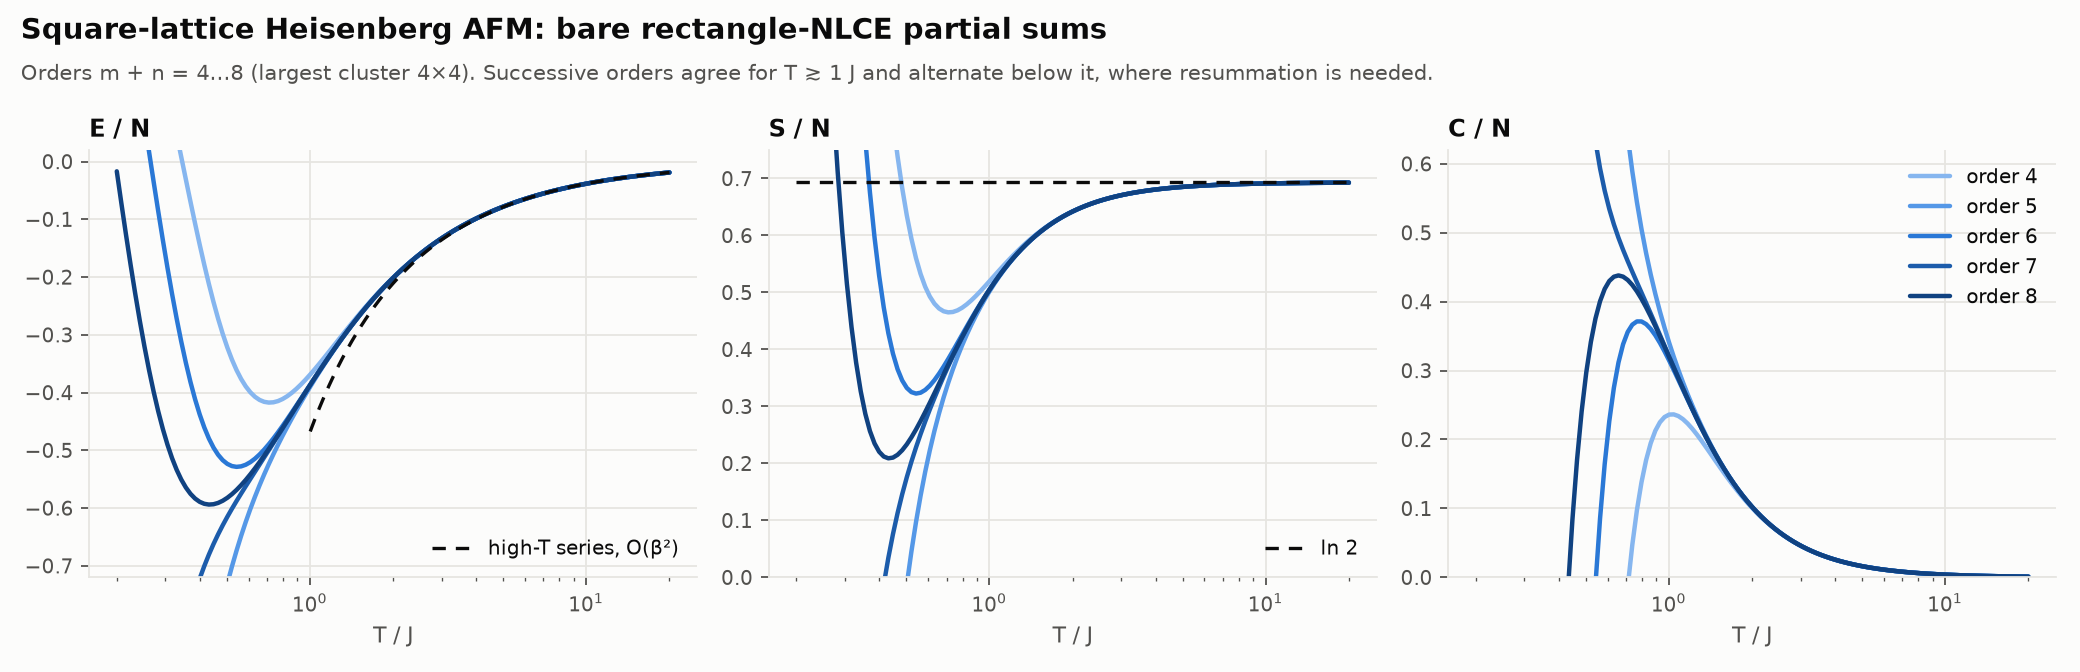
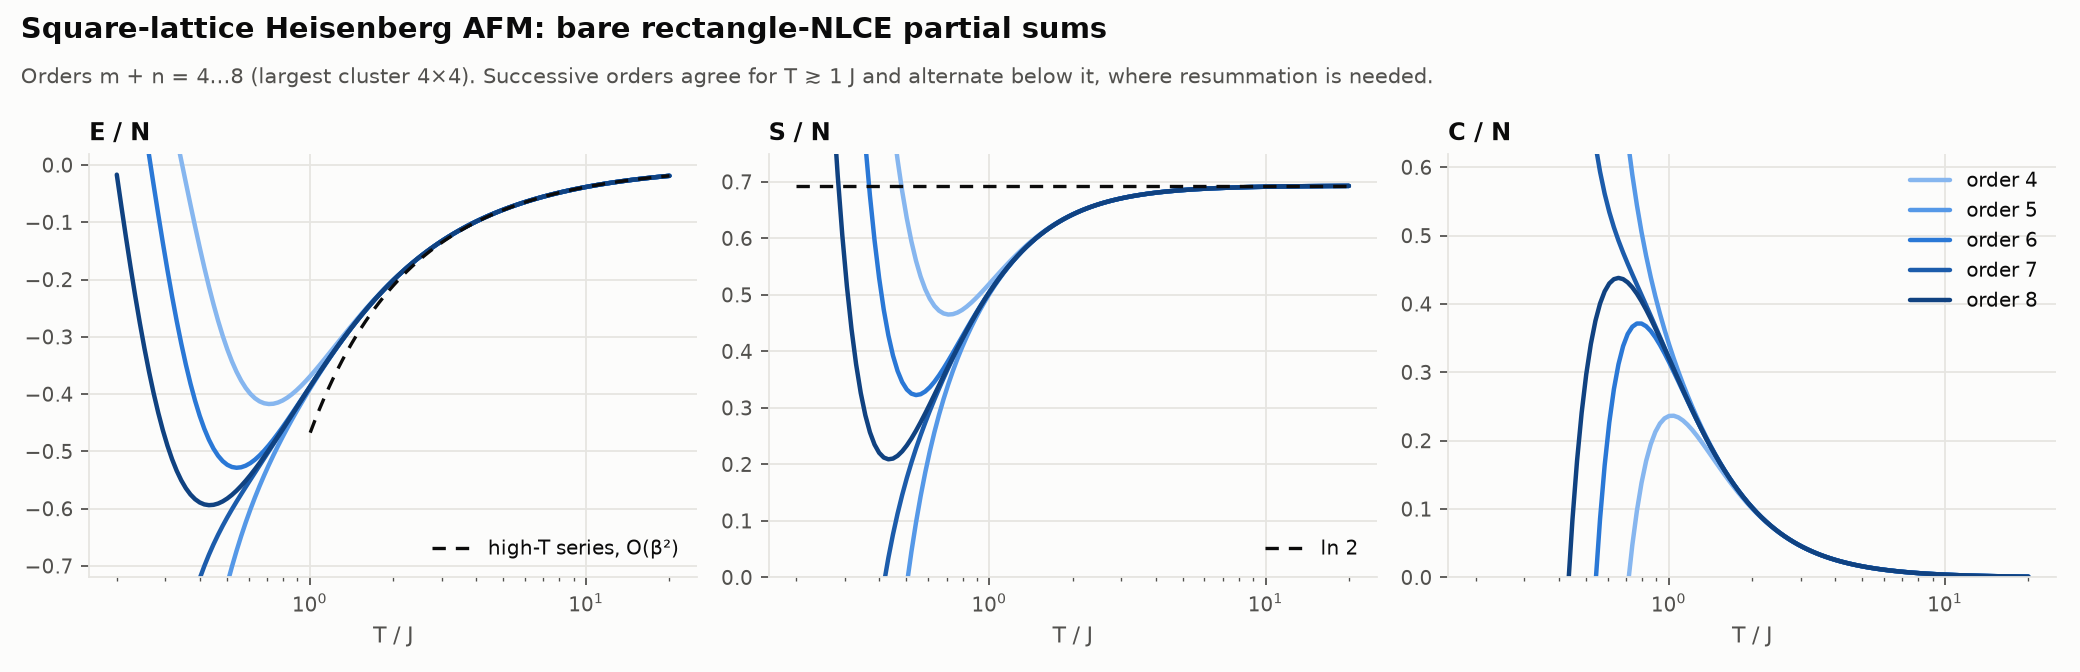
Compensated thermal sums; bond vs rectangle expansion plots
- ExactDiagSolver: Neumaier summation for the Boltzmann sums. Inclusion-
  exclusion over the 12-bond DAG (21M embeddings, lattice constants up to
  ~1e4) amplifies rounding in P(c); this lowers the high-T floor of the
  Ising bond expansion from ~1e-6 to ~1e-9. The Heisenberg floor (~1e-8)
  comes from dense-eigensolver rounding and is unchanged.
- export_csv: 12-bond Heisenberg and Ising data from one shared ClusterSet.
- make_plots.py: heisenberg_bond.png (partial sums by order),
  bond_vs_rect_heisenberg.png (highest orders + last-order change),
  bond_vs_rect_ising.png (true error vs Onsager); inch-based title layout.
- README: plots and round-off notes.

Claude-Session: https://claude.ai/code/session_015xkeCVHFZmC4ayFKANJnHy

diff --git a/crates/quspin-nlce/plots/make_plots.py b/crates/quspin-nlce/plots/make_plots.py
@@ -98,10 +98,13 @@ def reference(ax, t, y, label):
 
 
 def finish(fig, path, title, subtitle):
-    # fig.text (not suptitle) so tight_layout packs the axes right under it.
+    # Positions in inches from the top, so every figure height gets the same
+    # spacing; fig.text (not suptitle) so tight_layout packs the axes below.
+    h = fig.get_figheight()
+    n_lines = subtitle.count("\n") + 1
     fig.text(
         0.01,
-        0.975,
+        1 - 0.1 / h,
         title,
         ha="left",
         va="top",
@@ -109,8 +112,10 @@ def finish(fig, path, title, subtitle):
         fontweight="bold",
         color=INK,
     )
-    fig.text(0.01, 0.905, subtitle, ha="left", va="top", fontsize=9.5, color=INK_2)
-    fig.tight_layout(rect=(0, 0, 1, 0.86))
+    fig.text(
+        0.01, 1 - 0.42 / h, subtitle, ha="left", va="top", fontsize=9.5, color=INK_2
+    )
+    fig.tight_layout(rect=(0, 0, 1, 1 - (0.42 + 0.19 * n_lines) / h))
     fig.savefig(path, dpi=160)
     print("wrote", path)
 
@@ -210,3 +215,105 @@ finish(
     "Orders 3…15 (chains of 2…14 sites). At order 15 the error hits machine "
     "precision (~1e-14) for T ≳ 0.5 J.",
 )
+
+# --- Bond expansion vs rectangle expansion -----------------------------------
+RECT, BOND = "#2a78d6", "#eb6834"  # categorical slots 1-2 (validated pair)
+QUANTS = [("energy", "E / N"), ("entropy", "S / N"), ("specific_heat", "C / N")]
+
+if (DIR / "heisenberg_bond.csv").exists():
+    hb = load("heisenberg_bond.csv")
+
+    # Partial sums by order, same layout as heisenberg.png.
+    fig, axes = plt.subplots(1, 3, figsize=(13, 4.2))
+    for ax, (key, lab) in zip(axes, QUANTS):
+        order_lines(ax, hb, [8, 9, 10, 11, 12], key)
+        ax.set_xscale("log")
+        ax.set_xlabel("T / J")
+        ax.set_title(lab, loc="left")
+    axes[0].set_ylim(-0.72, 0.02)
+    axes[1].set_ylim(0, 0.75)
+    axes[2].set_ylim(0, 0.62)
+    axes[2].legend(loc="upper right")
+    finish(
+        fig,
+        DIR / "heisenberg_bond.png",
+        "Square-lattice Heisenberg AFM: bare bond-NLCE partial sums",
+        "Orders 8…12 bonds (4,424 topologies, up to 13 sites). Even and odd orders "
+        "bracket the result and fan out below T ≈ 1 J.",
+    )
+
+    # Highest order of each expansion, and its last-order change.
+    rect_last, rect_prev = h[8], h[7]
+    bond_last, bond_prev = hb[12], hb[11]
+    fig, axes = plt.subplots(2, 3, figsize=(13, 7.4), sharex=True)
+    for col, (key, lab) in enumerate(QUANTS):
+        top, bottom = axes[0, col], axes[1, col]
+        top.plot(
+            rect_last["T"], rect_last[key], color=RECT, label="rectangles, m + n ≤ 8"
+        )
+        top.plot(bond_last["T"], bond_last[key], color=BOND, label="bonds, ≤ 12")
+        top.set_title(lab, loc="left")
+        for last, prev, color in [
+            (rect_last, rect_prev, RECT),
+            (bond_last, bond_prev, BOND),
+        ]:
+            bottom.plot(last["T"], floor(last[key] - prev[key]), color=color)
+        bottom.set_yscale("log")
+        bottom.set_ylim(1e-15, 10)
+        bottom.set_title(f"|Δ{lab.split()[0]}| between the last two orders", loc="left")
+        bottom.set_xlabel("T / J")
+        bottom.set_xscale("log")
+    axes[0, 0].set_ylim(-0.72, 0.02)
+    axes[0, 1].set_ylim(0, 0.75)
+    axes[0, 2].set_ylim(0, 0.62)
+    axes[0, 0].legend(loc="lower right")
+    finish(
+        fig,
+        DIR / "bond_vs_rect_heisenberg.png",
+        "Heisenberg AFM: rectangle vs topological bond expansion (bare sums)",
+        "Rectangles: 16 clusters, ≤ 16 sites, ≈35 s. Bonds: 4,424 clusters, ≤ 13 "
+        "sites, ≈3–5 min. Bottom: change between the last two orders.\n"
+        "The flat bond floor (~1e-8) at high T is eigenvalue rounding amplified by "
+        "inclusion–exclusion over 21M embeddings, not truncation error.",
+    )
+
+if (DIR / "ising_bond.csv").exists():
+    gb = load("ising_bond.csv")
+    fig, axes = plt.subplots(1, 2, figsize=(11.5, 4.2))
+    for data, o, color, label in [
+        (g, 8, RECT, "rectangles, m + n ≤ 8"),
+        (gb, 12, BOND, "bonds, ≤ 12"),
+    ]:
+        t = data[o]["T"]
+        axes[0].plot(t, data[o]["energy"], color=color, label=label)
+        axes[1].plot(t, floor(data[o]["energy"] - onsager(t)), color=color)
+    t = g[8]["T"]
+    reference(axes[0], t, onsager(t), "Onsager (exact)")
+    axes[0].set_ylim(-0.52, 0.02)
+    axes[0].set_title("E / N", loc="left")
+    axes[1].set_yscale("log")
+    axes[1].set_ylim(1e-16, 1)
+    axes[1].set_title("|E_NLCE − E_Onsager| / N", loc="left")
+    for ax in axes:
+        ax.set_xscale("log")
+        ax.set_xlabel("T / J")
+        ax.axvline(tc, color=INK_2, linewidth=1)
+        ax.text(
+            tc * 1.04,
+            0.97,
+            "T_c",
+            transform=ax.get_xaxis_transform(),
+            va="top",
+            fontsize=9,
+            color=INK_2,
+        )
+    axes[0].legend(loc="lower right")
+    finish(
+        fig,
+        DIR / "bond_vs_rect_ising.png",
+        "2D Ising model: rectangle vs topological bond expansion against Onsager",
+        "Highest order of each expansion (bare sums). The exact solution gives the "
+        "true error, not just the order-to-order change.\n"
+        "The bond floor (~1e-9) at high T is rounding amplified by "
+        "inclusion–exclusion over 21M embeddings, not truncation error.",
+    )

diff --git a/crates/quspin-nlce/src/solver/ed.rs b/crates/quspin-nlce/src/solver/ed.rs
@@ -248,29 +248,38 @@ impl Spectrum {
         };
         for (it, &t) in temps.iter().enumerate() {
             let beta = 1.0 / t;
-            let (mut z, mut e1, mut m1, mut m2) = (0.0, 0.0, 0.0, 0.0);
+            // Compensated sums: the NLCE weights are alternating-sign
+            // combinations of many cluster properties, which amplifies any
+            // rounding in them (see `Neumaier`).
+            let (mut z, mut e1, mut m1, mut m2) = (
+                Neumaier::default(),
+                Neumaier::default(),
+                Neumaier::default(),
+                Neumaier::default(),
+            );
             for b in &self.blocks {
                 let sz = b.sz.unwrap_or(0.0);
                 for &e in &b.eigenvalues {
                     let w = b.degeneracy * (-beta * (e - e0)).exp();
-                    z += w;
-                    e1 += w * e;
+                    z.add(w);
+                    e1.add(w * e);
                     // A degeneracy-2 block pairs S^z with −S^z: ⟨S^z⟩ cancels.
                     if b.degeneracy == 1.0 {
-                        m1 += w * sz;
+                        m1.add(w * sz);
                     }
-                    m2 += w * sz * sz;
+                    m2.add(w * sz * sz);
                 }
             }
+            let (z, e1, m1, m2) = (z.sum(), e1.sum(), m1.sum(), m2.sum());
             let mean_e = e1 / z;
-            let mut var_e = 0.0;
+            let mut var = Neumaier::default();
             for b in &self.blocks {
                 for &e in &b.eigenvalues {
                     let w = b.degeneracy * (-beta * (e - e0)).exp();
-                    var_e += w * (e - mean_e) * (e - mean_e);
+                    var.add(w * (e - mean_e) * (e - mean_e));
                 }
             }
-            var_e /= z;
+            let var_e = var.sum() / z;
             let ln_z = -beta * e0 + z.ln();
             out.ln_z[it] = ln_z;
             out.energy[it] = mean_e;
@@ -284,6 +293,36 @@ impl Spectrum {
             }
         }
         out
+    }
+}
+
+/// Neumaier (improved Kahan) compensated summation.
+///
+/// A cluster property enters the expansion through alternating-sign
+/// combinations over all its sub-clusters, multiplied by lattice constants
+/// that reach ~10⁴ for 12-bond clusters, so rounding in `P(c)` is amplified
+/// by many orders of magnitude. Summing the up to 2^N Boltzmann terms naively
+/// accumulates `O(√n · ε)` relative error; compensated summation removes that
+/// growth.
+#[derive(Default, Clone, Copy)]
+struct Neumaier {
+    sum: f64,
+    comp: f64,
+}
+
+impl Neumaier {
+    fn add(&mut self, x: f64) {
+        let t = self.sum + x;
+        if self.sum.abs() >= x.abs() {
+            self.comp += (self.sum - t) + x;
+        } else {
+            self.comp += (x - t) + self.sum;
+        }
+        self.sum = t;
+    }
+
+    fn sum(self) -> f64 {
+        self.sum + self.comp
     }
 }
 

diff --git a/crates/quspin-nlce/examples/export_csv.rs b/crates/quspin-nlce/examples/export_csv.rs
@@ -1,5 +1,8 @@
 //! Write bare NLCE partial sums (per site) for the Heisenberg, Ising and XX
-//! models to CSV files in the given directory (default `.`), for plotting.
+//! models to CSV files in the given directory (default `.`), for plotting:
+//! rectangle expansion for all three, plus the 12-bond topological bond
+//! expansion for Heisenberg and Ising (one cluster DAG, reused for both
+//! models; ≈10 min in release).
 //!
 //! ```sh
 //! cargo run --release -p quspin-nlce --example export_csv -- crates/quspin-nlce/plots
@@ -60,6 +63,22 @@ fn main() -> Result<(), Box<dyn std::error::Error>> {
         &RectangleGenerator::new(SquareLattice, 8),
         &Xxz::heisenberg(1.0),
         log_grid(0.2, 20.0, 121),
+    )?;
+    let bonds = ClusterSet::from_generator(
+        &BondGenerator::new(SquareLattice, 12),
+        "topological bond expansion, square lattice, 12 bonds",
+    )?;
+    export(
+        &dir.join("heisenberg_bond.csv"),
+        &bonds,
+        &Xxz::heisenberg(1.0),
+        log_grid(0.2, 20.0, 121),
+    )?;
+    export(
+        &dir.join("ising_bond.csv"),
+        &bonds,
+        &Xxz::ising(-1.0),
+        log_grid(0.2, 10.0, 121),
     )?;
     Ok(())
 }

diff --git a/crates/quspin-nlce/README.md b/crates/quspin-nlce/README.md
@@ -35,8 +35,8 @@ their parent's order). The 12-bond square-lattice DAG is 3.2 MB and loads in
 automorphism, and sub-cluster reference.
 
 Plots of the partial sums against exact results (Heisenberg, Ising vs
-Onsager, XX chain vs free fermions) are in [`plots/`](plots/); regenerate
-them with
+Onsager, XX chain vs free fermions) and of the bond vs rectangle expansion
+(`bond_vs_rect_*.png`) are in [`plots/`](plots/); regenerate them with
 
 ```sh
 cargo run --release -p quspin-nlce --example export_csv -- crates/quspin-nlce/plots
@@ -119,6 +119,15 @@ four steps (`src/generator/bond.rs`, `src/canon.rs`):
 4. **Multiplicities.** Redelmeier again on each topology's own line graph
    enumerates its connected proper sub-bond-sets once each; canonicalising
    them gives `M(s, c)`. The single site is the order-0 cluster.
+
+**Round-off.** `W(c)` is an alternating-sign combination over all
+sub-clusters, and the bond expansion multiplies it by lattice constants up
+to ~10⁴ over thousands of topologies, so rounding in `P(c)` is amplified
+enormously. At 12 bonds this leaves a floor of ~1e-9 (Ising, exact
+eigenvalues; the thermal sums use compensated summation) to ~1e-8
+(Heisenberg, dense-eigensolver rounding) in the per-site sums at high T —
+irrelevant where the expansion is not already converged, but visible in the
+high-T tails of `plots/bond_vs_rect_*.png`.
 
 Every embedding must be visited to count `L(c)`, so enumeration dominates:
 on the square lattice there are 20,971,920 embeddings up to 12 bonds but only
